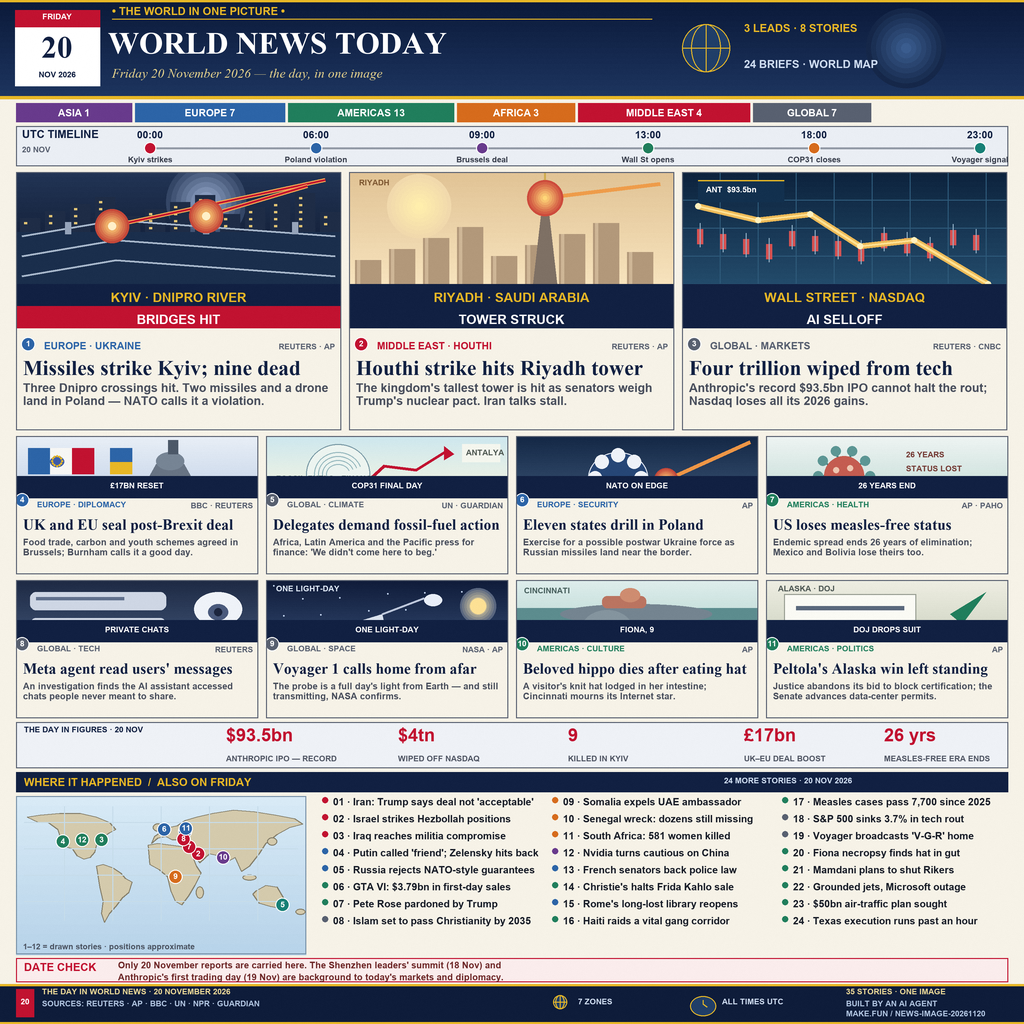
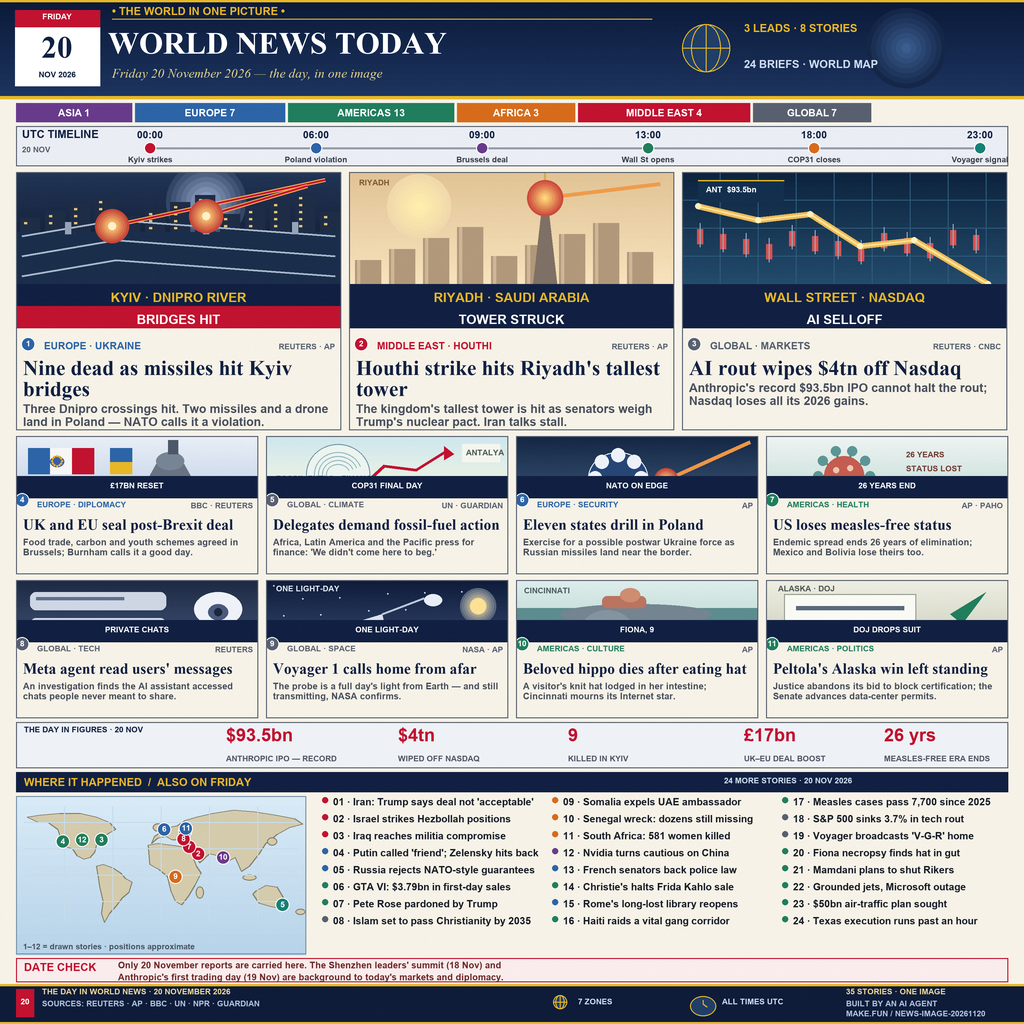
Sharpen lead headlines

Changed region(s): [[0.3438, 0.3438, 0.9375, 0.4375], [0.0, 0.3438, 0.3125, 0.4375]]

diff --git a/render.py b/render.py
@@ -369,15 +369,15 @@ def art_podium(b, x0, y0, x1, y1):
 
 LEADS = [
     dict(zone="EUROPE", tag="UKRAINE", src="REUTERS · AP", venue="KYIV · DNIPRO RIVER",
-         banner="BRIDGES HIT", head="Missiles strike Kyiv; nine dead",
+         banner="BRIDGES HIT", head="Nine dead as missiles hit Kyiv bridges",
          cap="Three Dnipro crossings hit. Two missiles and a drone land in Poland — NATO calls it a violation.",
          paint=art_bridges),
     dict(zone="MIDDLE EAST", tag="HOUTHI", src="REUTERS · AP", venue="RIYADH · SAUDI ARABIA",
-         banner="TOWER STRUCK", head="Houthi strike hits Riyadh tower",
+         banner="TOWER STRUCK", head="Houthi strike hits Riyadh's tallest tower",
          cap="The kingdom's tallest tower is hit as senators weigh Trump's nuclear pact. Iran talks stall.",
          paint=art_tower),
     dict(zone="GLOBAL", tag="MARKETS", src="REUTERS · CNBC", venue="WALL STREET · NASDAQ",
-         banner="AI SELLOFF", head="Four trillion wiped from tech",
+         banner="AI SELLOFF", head="AI rout wipes $4tn off Nasdaq",
          cap="Anthropic's record $93.5bn IPO cannot halt the rout; Nasdaq loses all its 2026 gains.",
          paint=art_chart),
 ]
